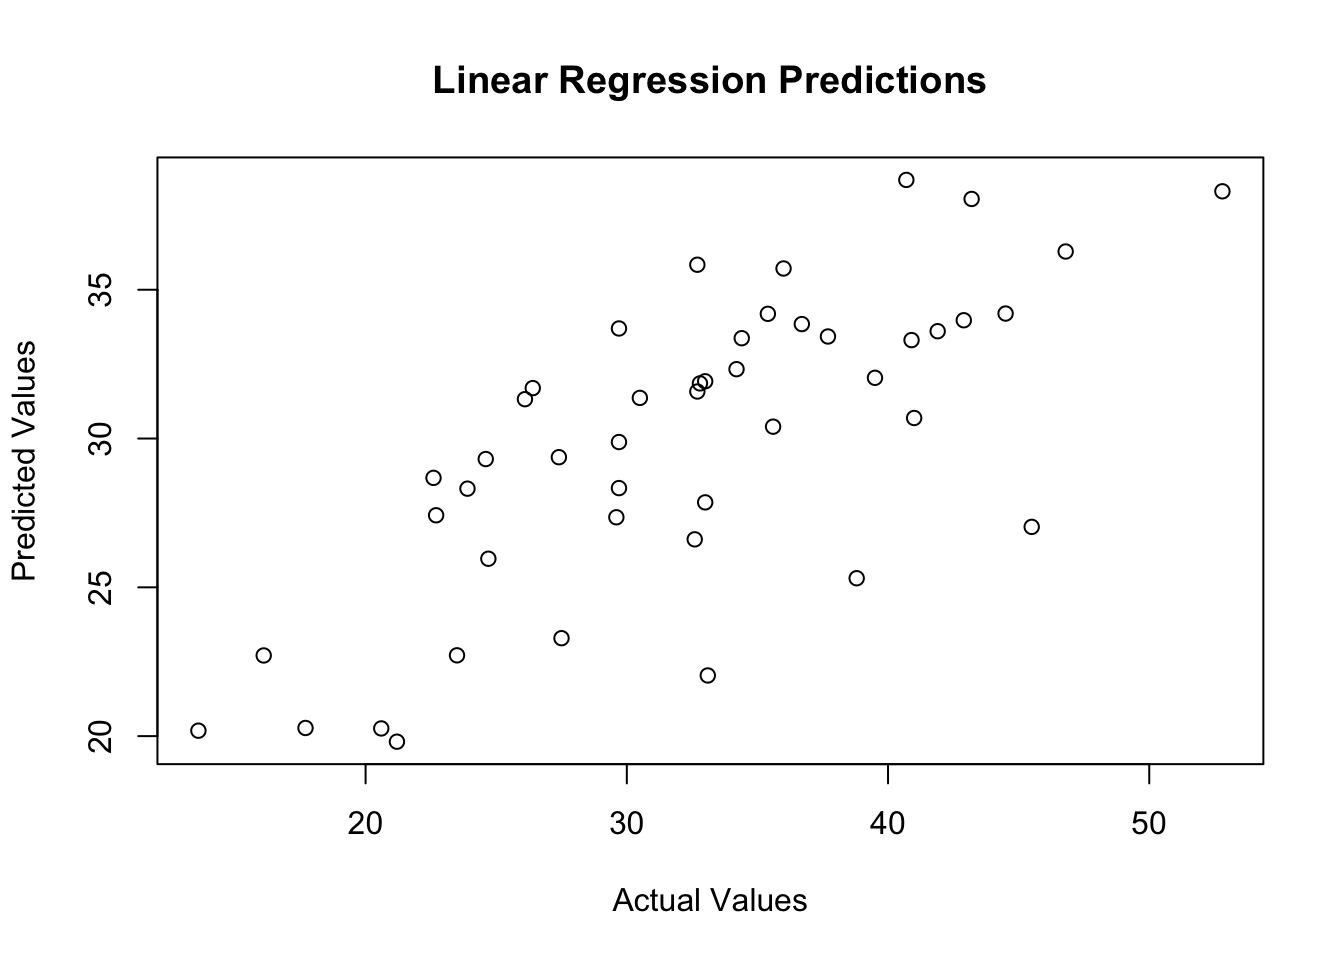
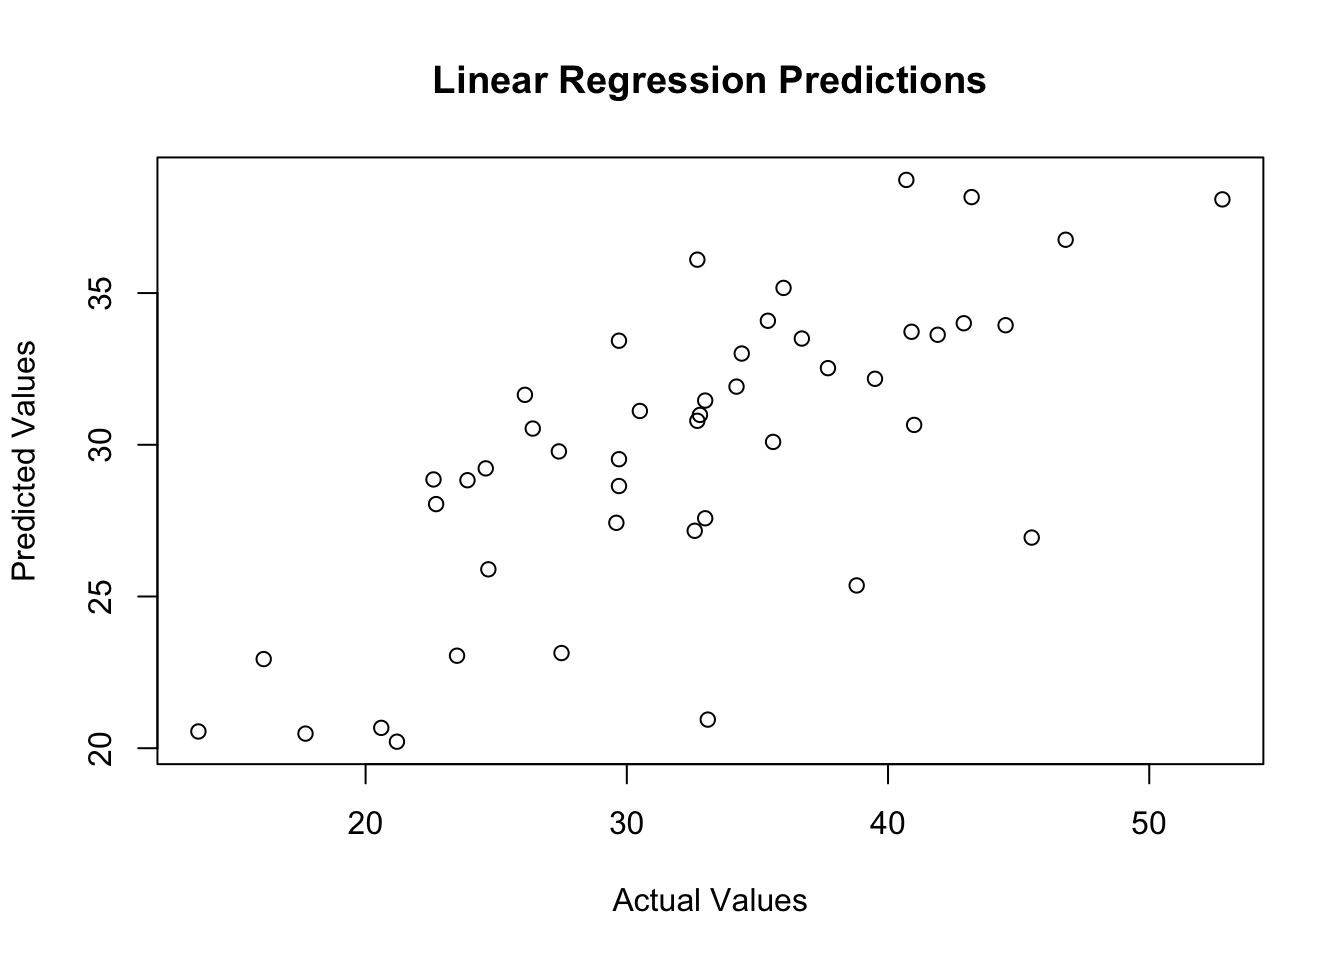
part of my work

diff --git a/model.html b/model.html
@@ -13,7 +13,7 @@
 
 <title>Regression model</title>
 
-<script src="site_libs/header-attrs-2.25/header-attrs.js"></script>
+<script src="site_libs/header-attrs-2.24/header-attrs.js"></script>
 <script src="site_libs/jquery-3.6.0/jquery-3.6.0.min.js"></script>
 <meta name="viewport" content="width=device-width, initial-scale=1" />
 <link href="site_libs/bootstrap-3.3.5/css/cosmo.min.css" rel="stylesheet" />
@@ -36,11 +36,11 @@
 <script src="site_libs/navigation-1.1/codefolding.js"></script>
 <link href="site_libs/highlightjs-9.12.0/default.css" rel="stylesheet" />
 <script src="site_libs/highlightjs-9.12.0/highlight.js"></script>
-<script src="site_libs/htmlwidgets-1.6.3/htmlwidgets.js"></script>
+<script src="site_libs/htmlwidgets-1.6.2/htmlwidgets.js"></script>
 <script src="site_libs/plotly-binding-4.10.3/plotly.js"></script>
 <script src="site_libs/typedarray-0.1/typedarray.min.js"></script>
-<link href="site_libs/crosstalk-1.2.1/css/crosstalk.min.css" rel="stylesheet" />
-<script src="site_libs/crosstalk-1.2.1/js/crosstalk.min.js"></script>
+<link href="site_libs/crosstalk-1.2.0/css/crosstalk.min.css" rel="stylesheet" />
+<script src="site_libs/crosstalk-1.2.0/js/crosstalk.min.js"></script>
 <link href="site_libs/plotly-htmlwidgets-css-2.11.1/plotly-htmlwidgets.css" rel="stylesheet" />
 <script src="site_libs/plotly-main-2.11.1/plotly-latest.min.js"></script>
 <link href="site_libs/font-awesome-6.4.2/css/all.min.css" rel="stylesheet" />
@@ -391,7 +391,12 @@ div.tocify {
 
 <div id="data-set-splitting" class="section level1">
 <h1>Data Set Splitting</h1>
-<p>We firstly divide the data set into training and testing sets.</p>
+<p>We used data from the years 2018 to 2020 as our training set, and
+data from 2021 as our test set.</p>
+<p>All these datasets have been filtered to remove any missing values
+and do not contain any outliers, ensuring that the data quality is high.
+This preprocessing step lays a strong foundation for building accurate
+and reliable models.</p>
 <pre class="r"><code>data=readRDS(&quot;data_for_model.rds&quot;) 
 training_data &lt;- filter(data, year &gt;= 2018 &amp; year &lt;= 2020)|&gt;select(-c(state,year))
 testing_data &lt;- filter(data, year == 2021)|&gt;select(-c(state,year))</code></pre>
@@ -400,90 +405,190 @@ testing_data &lt;- filter(data, year == 2021)|&gt;select(-c(state,year))</code><
 <h1>Multiple Linear Regression</h1>
 <div id="model-selection" class="section level2">
 <h2>Model Selection</h2>
-<p>Explain why multiple linear regression was chosen. Describe the
-mathematical form of the model and assumptions.</p>
+<p>The primary reason for initially choosing linear models in
+statistical analysis is their simplicity and ease of understanding.
+These models, by representing relationships in a straightforward linear
+manner, make it easier for us to comprehend how different variables
+interact with each other.</p>
+<p>Moreover, linear models are known for their robustness, offering
+reliable performance even with various types of data and statistical
+errors. Importantly, they serve as an effective benchmark in more
+complex modeling processes.</p>
+<p>By starting with a linear model, we can establish a baseline
+performance level, against which the effectiveness of more sophisticated
+models can be measured. This stepwise approach helps in ensuring that
+the complexity of a model is justified by a significant improvement over
+the simpler linear model.</p>
 </div>
 <div id="full-model-linear-regression" class="section level2">
 <h2>Full model-Linear regression</h2>
-<pre class="r"><code>model &lt;- lm(death_rate ~ employment+hc_exp+income+edu_level+cardio_rate+smoke_rate+elder_rate, data = training_data)
-summary(model)</code></pre>
-<pre><code>## 
-## Call:
-## lm(formula = death_rate ~ employment + hc_exp + income + edu_level + 
-##     cardio_rate + smoke_rate + elder_rate, data = training_data)
-## 
-## Residuals:
-##      Min       1Q   Median       3Q      Max 
-## -17.2997  -4.0685   0.0523   4.8335  16.0139 
-## 
-## Coefficients:
-##               Estimate Std. Error t value Pr(&gt;|t|)    
-## (Intercept)  6.830e+01  1.342e+01   5.088 1.21e-06 ***
-## employment   2.492e+01  1.653e+01   1.507 0.134092    
-## hc_exp      -1.283e-03  7.332e-04  -1.749 0.082569 .  
-## income      -2.319e-04  1.776e-04  -1.306 0.193762    
-## edu_level   -4.570e+01  2.148e+01  -2.127 0.035250 *  
-## cardio_rate  1.803e+02  5.142e+01   3.506 0.000621 ***
-## smoke_rate  -1.141e+01  3.146e+01  -0.363 0.717429    
-## elder_rate  -1.529e+02  3.548e+01  -4.311 3.16e-05 ***
-## ---
-## Signif. codes:  0 &#39;***&#39; 0.001 &#39;**&#39; 0.01 &#39;*&#39; 0.05 &#39;.&#39; 0.1 &#39; &#39; 1
-## 
-## Residual standard error: 7.11 on 132 degrees of freedom
-## Multiple R-squared:  0.399,  Adjusted R-squared:  0.3672 
-## F-statistic: 12.52 on 7 and 132 DF,  p-value: 3.068e-12</code></pre>
+<pre class="r"><code>model &lt;- lm(death_rate ~ employment + hc_exp + income + edu_level + cardio_rate + smoke_rate + elder_rate, data = training_data)
+summary(model) |&gt; 
+broom::tidy() |&gt;
+  knitr::kable()</code></pre>
+<table>
+<thead>
+<tr class="header">
+<th align="left">term</th>
+<th align="right">estimate</th>
+<th align="right">std.error</th>
+<th align="right">statistic</th>
+<th align="right">p.value</th>
+</tr>
+</thead>
+<tbody>
+<tr class="odd">
+<td align="left">(Intercept)</td>
+<td align="right">68.3037142</td>
+<td align="right">13.4233735</td>
+<td align="right">5.0884164</td>
+<td align="right">0.0000012</td>
+</tr>
+<tr class="even">
+<td align="left">employment</td>
+<td align="right">24.9223618</td>
+<td align="right">16.5331015</td>
+<td align="right">1.5074221</td>
+<td align="right">0.1340921</td>
+</tr>
+<tr class="odd">
+<td align="left">hc_exp</td>
+<td align="right">-0.0012826</td>
+<td align="right">0.0007332</td>
+<td align="right">-1.7492692</td>
+<td align="right">0.0825687</td>
+</tr>
+<tr class="even">
+<td align="left">income</td>
+<td align="right">-0.0002319</td>
+<td align="right">0.0001776</td>
+<td align="right">-1.3061814</td>
+<td align="right">0.1937624</td>
+</tr>
+<tr class="odd">
+<td align="left">edu_level</td>
+<td align="right">-45.7011712</td>
+<td align="right">21.4826355</td>
+<td align="right">-2.1273540</td>
+<td align="right">0.0352503</td>
+</tr>
+<tr class="even">
+<td align="left">cardio_rate</td>
+<td align="right">180.2845378</td>
+<td align="right">51.4160324</td>
+<td align="right">3.5063876</td>
+<td align="right">0.0006212</td>
+</tr>
+<tr class="odd">
+<td align="left">smoke_rate</td>
+<td align="right">-11.4113239</td>
+<td align="right">31.4644509</td>
+<td align="right">-0.3626735</td>
+<td align="right">0.7174288</td>
+</tr>
+<tr class="even">
+<td align="left">elder_rate</td>
+<td align="right">-152.9455140</td>
+<td align="right">35.4789569</td>
+<td align="right">-4.3108797</td>
+<td align="right">0.0000316</td>
+</tr>
+</tbody>
+</table>
+<pre class="r"><code>broom::glance(model) |&gt;
+  mutate(model = &quot;Full Linear Regression&quot;) |&gt;
+  select(model, r.squared, adj.r.squared, p.value, AIC, BIC) |&gt;
+  knitr::kable()</code></pre>
+<table>
+<colgroup>
+<col width="31%" />
+<col width="13%" />
+<col width="19%" />
+<col width="10%" />
+<col width="12%" />
+<col width="12%" />
+</colgroup>
+<thead>
+<tr class="header">
+<th align="left">model</th>
+<th align="right">r.squared</th>
+<th align="right">adj.r.squared</th>
+<th align="right">p.value</th>
+<th align="right">AIC</th>
+<th align="right">BIC</th>
+</tr>
+</thead>
+<tbody>
+<tr class="odd">
+<td align="left">Full Linear Regression</td>
+<td align="right">0.3990315</td>
+<td align="right">0.367162</td>
+<td align="right">0</td>
+<td align="right">956.2865</td>
+<td align="right">982.7613</td>
+</tr>
+</tbody>
+</table>
 </div>
 <div id="backwards-elimination" class="section level2">
 <h2>Backwards Elimination</h2>
-<pre class="r"><code>backward_result=step(model, direction=&#39;backward&#39;)</code></pre>
-<pre><code>## Start:  AIC=556.98
-## death_rate ~ employment + hc_exp + income + edu_level + cardio_rate + 
-##     smoke_rate + elder_rate
-## 
-##               Df Sum of Sq    RSS    AIC
-## - smoke_rate   1      6.65 6679.6 555.12
-## - income       1     86.25 6759.2 556.78
-## &lt;none&gt;                     6672.9 556.98
-## - employment   1    114.87 6787.8 557.37
-## - hc_exp       1    154.69 6827.6 558.19
-## - edu_level    1    228.78 6901.7 559.70
-## - cardio_rate  1    621.53 7294.4 567.45
-## - elder_rate   1    939.45 7612.4 573.42
-## 
-## Step:  AIC=555.12
-## death_rate ~ employment + hc_exp + income + edu_level + cardio_rate + 
-##     elder_rate
-## 
-##               Df Sum of Sq    RSS    AIC
-## - income       1     81.35 6760.9 554.82
-## &lt;none&gt;                     6679.6 555.12
-## - employment   1    109.81 6789.4 555.41
-## - hc_exp       1    196.67 6876.2 557.19
-## - edu_level    1    325.09 7004.6 559.78
-## - cardio_rate  1    626.74 7306.3 565.68
-## - elder_rate   1    942.16 7621.7 571.60
-## 
-## Step:  AIC=554.82
-## death_rate ~ employment + hc_exp + edu_level + cardio_rate + 
-##     elder_rate
-## 
-##               Df Sum of Sq    RSS    AIC
-## - employment   1     63.16 6824.1 554.12
-## &lt;none&gt;                     6760.9 554.82
-## - hc_exp       1    367.38 7128.3 560.23
-## - cardio_rate  1    552.45 7313.4 563.81
-## - edu_level    1    760.83 7521.7 567.75
-## - elder_rate   1    875.80 7636.7 569.87
-## 
-## Step:  AIC=554.12
-## death_rate ~ hc_exp + edu_level + cardio_rate + elder_rate
-## 
-##               Df Sum of Sq    RSS    AIC
-## &lt;none&gt;                     6824.1 554.12
-## - hc_exp       1    304.57 7128.7 558.23
-## - cardio_rate  1    494.15 7318.2 561.91
-## - edu_level    1    698.57 7522.6 565.76
-## - elder_rate   1   1058.62 7882.7 572.31</code></pre>
+<p>We use Backward Elimination for constructing our linear regression
+model to enhance its efficiency and interpretability. This method
+systematically removes the least significant variables, ensuring that
+only the most impactful predictors are retained. Consequently, it helps
+in reducing model complexity and avoiding overfitting, resulting in a
+more robust and meaningful model.</p>
+<pre class="r"><code>backward_result = step(model, direction = &#39;backward&#39;, trace = 0)
+  broom::tidy(backward_result) |&gt;
+      knitr::kable()</code></pre>
+<table>
+<thead>
+<tr class="header">
+<th align="left">term</th>
+<th align="right">estimate</th>
+<th align="right">std.error</th>
+<th align="right">statistic</th>
+<th align="right">p.value</th>
+</tr>
+</thead>
+<tbody>
+<tr class="odd">
+<td align="left">(Intercept)</td>
+<td align="right">74.2170216</td>
+<td align="right">7.6615066</td>
+<td align="right">9.687001</td>
+<td align="right">0.0000000</td>
+</tr>
+<tr class="even">
+<td align="left">hc_exp</td>
+<td align="right">-0.0014021</td>
+<td align="right">0.0005712</td>
+<td align="right">-2.454649</td>
+<td align="right">0.0153748</td>
+</tr>
+<tr class="odd">
+<td align="left">edu_level</td>
+<td align="right">-47.8686408</td>
+<td align="right">12.8765984</td>
+<td align="right">-3.717491</td>
+<td align="right">0.0002939</td>
+</tr>
+<tr class="even">
+<td align="left">cardio_rate</td>
+<td align="right">146.1913832</td>
+<td align="right">46.7572070</td>
+<td align="right">3.126606</td>
+<td align="right">0.0021660</td>
+</tr>
+<tr class="odd">
+<td align="left">elder_rate</td>
+<td align="right">-155.1015760</td>
+<td align="right">33.8923959</td>
+<td align="right">-4.576294</td>
+<td align="right">0.0000106</td>
+</tr>
+</tbody>
+</table>
 </div>
 <div id="selected-value" class="section level2">
 <h2>Selected value</h2>
@@ -606,7 +711,7 @@ cv_df %&gt;%
 rf_predictions &lt;- predict(rf_model, training_data)
 r_squared &lt;- cor(training_data$death_rate, rf_predictions)^2
 print(paste(&quot;R²:&quot;, r_squared))</code></pre>
-<pre><code>## [1] &quot;R²: 0.931511255291287&quot;</code></pre>
+<pre><code>## [1] &quot;R²: 0.932890562951905&quot;</code></pre>
 <pre class="r"><code>library(randomForest)
 library(boot)</code></pre>
 <pre><code>## 
@@ -652,13 +757,13 @@ plot(testing_data$death_rate, predict(rf_model, testing_data), main = &quot;Line
 
 print(importance_values)</code></pre>
 <pre><code>##             IncNodePurity
-## employment       1349.098
-## hc_exp           1890.299
-## income           1175.240
-## edu_level        1863.522
-## cardio_rate      1174.053
-## smoke_rate       1593.814
-## elder_rate       1449.319</code></pre>
+## employment       1425.180
+## hc_exp           1939.800
+## income           1178.581
+## edu_level        1848.300
+## cardio_rate      1097.238
+## smoke_rate       1516.892
+## elder_rate       1474.258</code></pre>
 <pre class="r"><code>library(plotly)</code></pre>
 <pre><code>## 
 ## Attaching package: &#39;plotly&#39;</code></pre>
@@ -682,8 +787,8 @@ plot_ly(feature_importance, x = ~Importance, y = ~Feature, type = &#39;bar&#39;,
   layout(title = &quot;Feature Importance from Random Forest Model&quot;,
          xaxis = list(title = &quot;Importance&quot;),
          yaxis = list(title = &quot;Feature&quot;))</code></pre>
-<div class="plotly html-widget html-fill-item" id="htmlwidget-9f83ddb664a7353a4f3f" style="width:672px;height:480px;"></div>
-<script type="application/json" data-for="htmlwidget-9f83ddb664a7353a4f3f">{"x":{"visdat":{"c2276d99c989":["function () ","plotlyVisDat"]},"cur_data":"c2276d99c989","attrs":{"c2276d99c989":{"x":{},"y":{},"orientation":"h","alpha_stroke":1,"sizes":[10,100],"spans":[1,20],"type":"bar"}},"layout":{"margin":{"b":40,"l":60,"t":25,"r":10},"title":"Feature Importance from Random Forest Model","xaxis":{"domain":[0,1],"automargin":true,"title":"Importance"},"yaxis":{"domain":[0,1],"automargin":true,"title":"Feature","type":"category","categoryorder":"array","categoryarray":["cardio_rate","income","employment","elder_rate","smoke_rate","edu_level","hc_exp"]},"hovermode":"closest","showlegend":false},"source":"A","config":{"modeBarButtonsToAdd":["hoverclosest","hovercompare"],"showSendToCloud":false},"data":[{"x":[1174.0527414885662,1175.2399537114477,1349.0978067481199,1449.3186812918539,1593.8137801174746,1863.5218412901525,1890.29924501904],"y":["cardio_rate","income","employment","elder_rate","smoke_rate","edu_level","hc_exp"],"orientation":"h","type":"bar","marker":{"color":"rgba(31,119,180,1)","line":{"color":"rgba(31,119,180,1)"}},"error_y":{"color":"rgba(31,119,180,1)"},"error_x":{"color":"rgba(31,119,180,1)"},"xaxis":"x","yaxis":"y","frame":null}],"highlight":{"on":"plotly_click","persistent":false,"dynamic":false,"selectize":false,"opacityDim":0.20000000000000001,"selected":{"opacity":1},"debounce":0},"shinyEvents":["plotly_hover","plotly_click","plotly_selected","plotly_relayout","plotly_brushed","plotly_brushing","plotly_clickannotation","plotly_doubleclick","plotly_deselect","plotly_afterplot","plotly_sunburstclick"],"base_url":"https://plot.ly"},"evals":[],"jsHooks":[]}</script>
+<div class="plotly html-widget html-fill-item-overflow-hidden html-fill-item" id="htmlwidget-9f83ddb664a7353a4f3f" style="width:672px;height:480px;"></div>
+<script type="application/json" data-for="htmlwidget-9f83ddb664a7353a4f3f">{"x":{"visdat":{"5e6932993d9b":["function () ","plotlyVisDat"]},"cur_data":"5e6932993d9b","attrs":{"5e6932993d9b":{"x":{},"y":{},"orientation":"h","alpha_stroke":1,"sizes":[10,100],"spans":[1,20],"type":"bar"}},"layout":{"margin":{"b":40,"l":60,"t":25,"r":10},"title":"Feature Importance from Random Forest Model","xaxis":{"domain":[0,1],"automargin":true,"title":"Importance"},"yaxis":{"domain":[0,1],"automargin":true,"title":"Feature","type":"category","categoryorder":"array","categoryarray":["cardio_rate","income","employment","elder_rate","smoke_rate","edu_level","hc_exp"]},"hovermode":"closest","showlegend":false},"source":"A","config":{"modeBarButtonsToAdd":["hoverclosest","hovercompare"],"showSendToCloud":false},"data":[{"x":[1097.2378886440249,1178.5814929703588,1425.1796401840083,1474.2576271557482,1516.8920527011812,1848.299946697033,1939.7995787428899],"y":["cardio_rate","income","employment","elder_rate","smoke_rate","edu_level","hc_exp"],"orientation":"h","type":"bar","marker":{"color":"rgba(31,119,180,1)","line":{"color":"rgba(31,119,180,1)"}},"error_y":{"color":"rgba(31,119,180,1)"},"error_x":{"color":"rgba(31,119,180,1)"},"xaxis":"x","yaxis":"y","frame":null}],"highlight":{"on":"plotly_click","persistent":false,"dynamic":false,"selectize":false,"opacityDim":0.20000000000000001,"selected":{"opacity":1},"debounce":0},"shinyEvents":["plotly_hover","plotly_click","plotly_selected","plotly_relayout","plotly_brushed","plotly_brushing","plotly_clickannotation","plotly_doubleclick","plotly_deselect","plotly_afterplot","plotly_sunburstclick"],"base_url":"https://plot.ly"},"evals":[],"jsHooks":[]}</script>
 <p>数值较高的特征被视为更重要，diabetes_rate，rpp，obesity_rate 最重要 -
 待解释</p>
 <p>Summarize the performance of multiple linear regression and random
